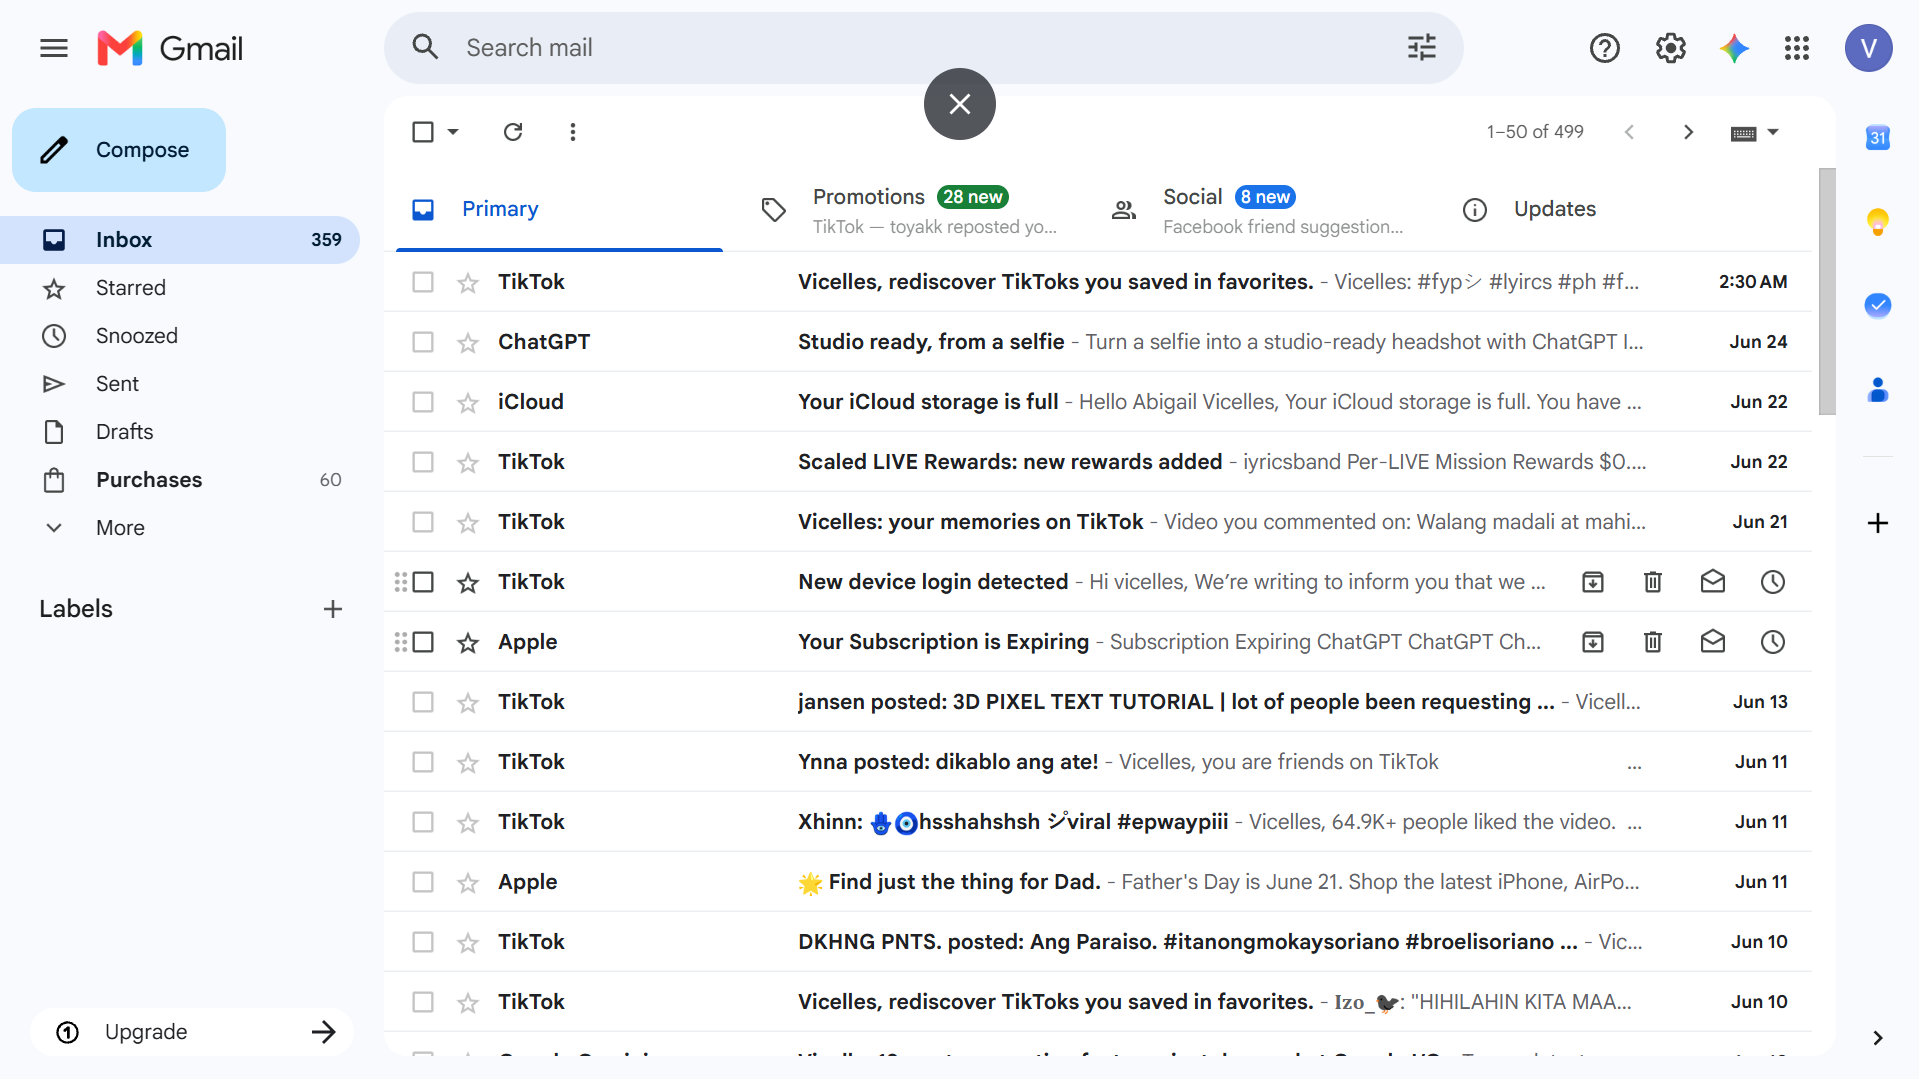
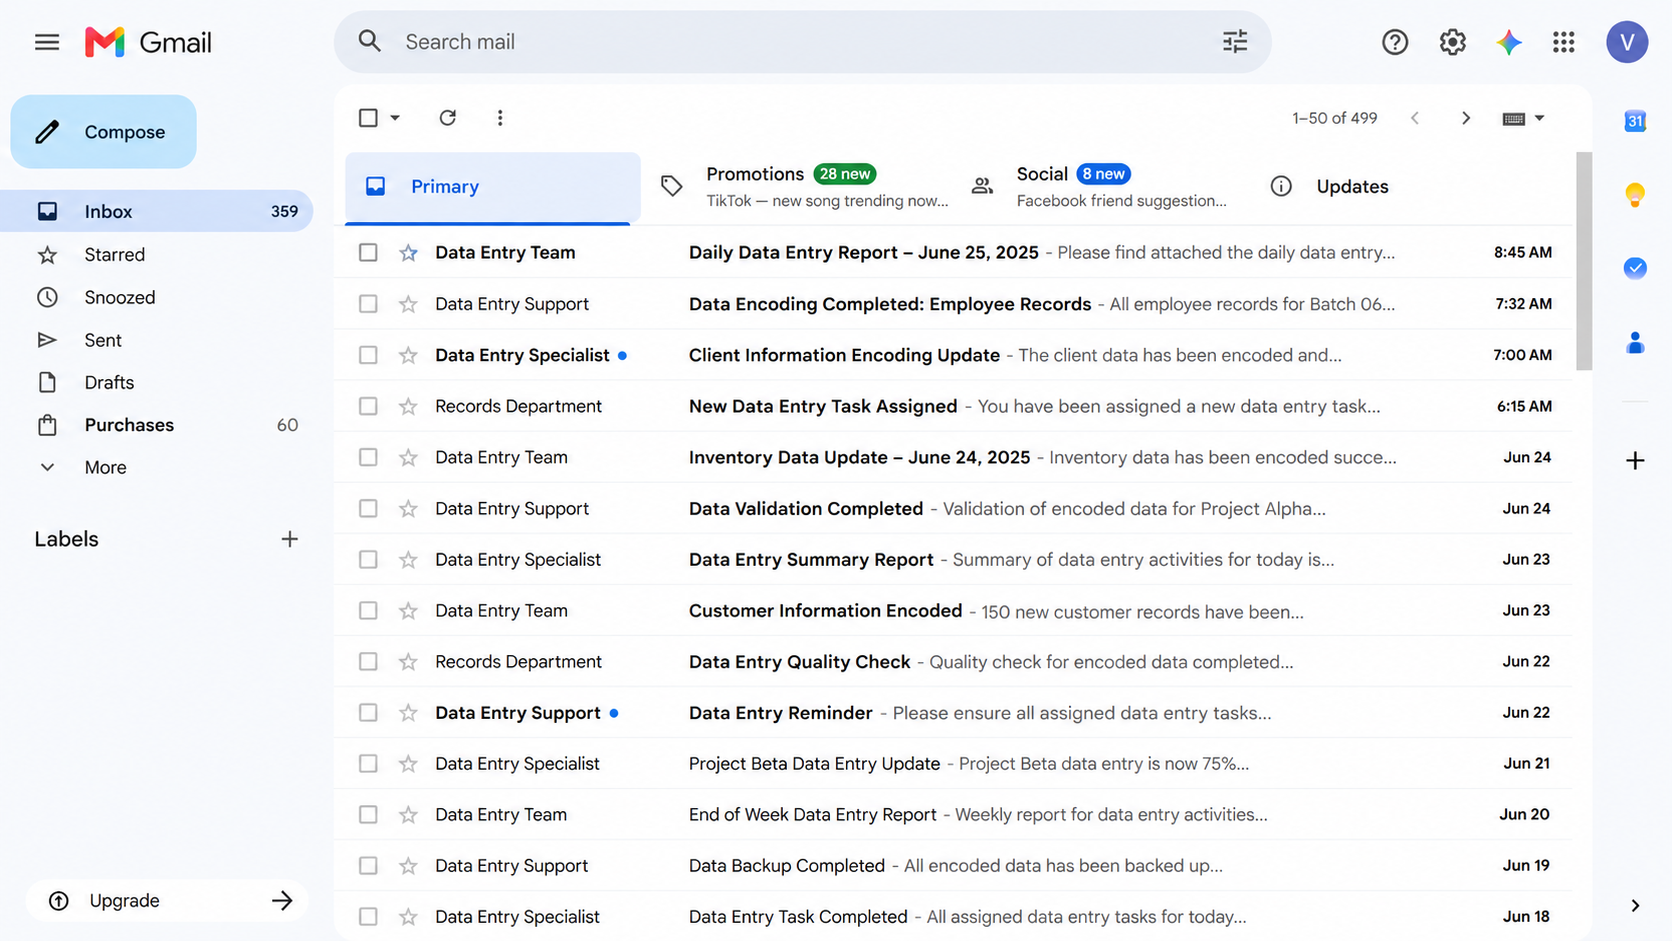
added 1

diff --git a/index.html b/index.html
@@ -316,7 +316,7 @@
         </div>
     </section>
 
-    <!-- PROOF OF WORK SLIDER SECTION (BEFORE & AFTER) -->
+    <!-- PROOF OF WORK SLIDER SECTION (6 SLIDES NA) -->
     <section id="work" class="max-w-7xl mx-auto px-6 py-20 border-t border-white/5">
         <div class="animate-on-scroll">
             <p class="text-purple-400 text-xs uppercase tracking-widest mb-2">Proof of Work</p>
@@ -326,6 +326,7 @@
         <div class="glass-card rounded-3xl p-8 md:p-12 animate-on-scroll">
             <div class="slider relative mb-8" id="beforeAfterSlider">
                 <div class="slides" id="slidesContainer">
+                    
                     <!-- Slide 1: BEFORE EMAIL -->
                     <div class="slide">
                         <img src="02_Before_Indox_Email.png" alt="Before Inbox" class="w-full h-auto rounded-xl border border-gray-700">
@@ -369,6 +370,28 @@
                         <h3 class="text-3xl font-serif mt-4 mb-2">Structured, conflict-free, focused calendar.</h3>
                         <p class="text-gray-400 max-w-3xl">Rebuilt into a structured system with priority-based time-blocking and daily review. Conflicts removed, context switching reduced, deep work increased from near-zero to 2h+ daily.</p>
                     </div>
+
+                    <!-- Slide 5: BEFORE EXCEL -->
+                    <div class="slide">
+                        <img src="02_Excel_Management_Before.png" alt="Before Excel" class="w-full h-auto rounded-xl border border-gray-700">
+                        <div class="flex flex-wrap gap-3 mt-6">
+                            <span class="bg-red-500/20 text-red-300 px-3 py-1 rounded text-xs uppercase">Before</span>
+                            <span class="bg-white/10 px-3 py-1 rounded text-xs uppercase">Excel Management</span>
+                        </div>
+                        <h3 class="text-3xl font-serif mt-4 mb-2">Unorganized files — no audit trail, duplicate names.</h3>
+                        <p class="text-gray-400 max-w-3xl">A document log with random filenames, duplicate files, and no clear folder structure. Zero visibility, hard to track, and high risk of missing files.</p>
+                    </div>
+
+                    <!-- Slide 6: AFTER EXCEL -->
+                    <div class="slide">
+                        <img src="03_Excel_Management_After.png" alt="After Excel" class="w-full h-auto rounded-xl border border-gray-700">
+                        <div class="flex flex-wrap gap-3 mt-6">
+                            <span class="bg-green-500/20 text-green-300 px-3 py-1 rounded text-xs uppercase">After</span>
+                            <span class="bg-white/10 px-3 py-1 rounded text-xs uppercase">Excel Management</span>
+                        </div>
+                        <h3 class="text-3xl font-serif mt-4 mb-2">Structured audit log — organized, consistent, traceable.</h3>
+                        <p class="text-gray-400 max-w-3xl">A standardized naming convention with clear folder purposes, statuses, and notes. Every file is accounted for, easy to find, and fully traceable.</p>
+                    </div>
                 </div>
             </div>
 
@@ -382,6 +405,8 @@
                     <button onclick="goToSlide(1)" class="w-2 h-2 rounded-full bg-gray-600 transition-all" id="indicator-1"></button>
                     <button onclick="goToSlide(2)" class="w-2 h-2 rounded-full bg-gray-600 transition-all" id="indicator-2"></button>
                     <button onclick="goToSlide(3)" class="w-2 h-2 rounded-full bg-gray-600 transition-all" id="indicator-3"></button>
+                    <button onclick="goToSlide(4)" class="w-2 h-2 rounded-full bg-gray-600 transition-all" id="indicator-4"></button>
+                    <button onclick="goToSlide(5)" class="w-2 h-2 rounded-full bg-gray-600 transition-all" id="indicator-5"></button>
                 </div>
 
                 <button onclick="moveSlide(1)" class="w-10 h-10 rounded-full border border-gray-600 hover:border-purple-400 hover:bg-purple-500/20 flex items-center justify-center transition">
@@ -407,7 +432,7 @@
         </div>
     </section>
 
-    <!-- Footer with LINKS -->
+    <!-- Footer -->
     <footer class="border-t border-white/10 py-12 text-center">
         <h3 class="text-2xl font-serif gradient-text mb-4">Jay Lourd Vicelles</h3>
         
@@ -416,12 +441,9 @@
         <p class="text-purple-300 text-xs mb-6">Available for remote work - Sankanan Manolo Fortich Buk. , Philippines.</p>
         
         <div class="flex justify-center gap-6 mb-8">
-            <!-- LINKEDIN ICON WITH REAL LINK -->
             <a href="https://www.linkedin.com/in/jay-lourd-vicelles-a596a7229/" target="_blank" class="w-10 h-10 border border-purple-500/50 text-purple-400 rounded-full flex items-center justify-center hover:bg-purple-500/10 hover:border-purple-400 hover:text-white transition">
                 <svg class="w-4 h-4" fill="currentColor" viewBox="0 0 24 24"><path d="M20.447 20.452h-3.554v-5.569c0-1.328-.027-3.037-1.852-3.037-1.853 0-2.136 1.445-2.136 2.939v5.667H9.351V9h3.414v1.561h.046c.477-.9 1.637-1.85 3.37-1.85 3.601 0 4.267 2.37 4.267 5.455v6.286zM5.337 7.433c-1.144 0-2.063-.926-2.063-2.065 0-1.138.92-2.063 2.063-2.063 1.14 0 2.064.925 2.064 2.063 0 1.139-.925 2.065-2.064 2.065zm1.782 13.019H3.555V9h3.564v11.452zM22.225 0H1.771C.792 0 0 .774 0 1.729v20.542C0 23.227.792 24 1.771 24h20.451C23.2 24 24 23.227 24 22.271V1.729C24 .774 23.2 0 22.225 0z"/></svg>
             </a>
-            
-            <!-- EMAIL ICON WITH REAL EMAIL -->
             <a href="mailto:jaylourdestahanvicelles@gmail.com" class="w-10 h-10 border border-purple-500/50 text-purple-400 rounded-full flex items-center justify-center hover:bg-purple-500/10 hover:border-purple-400 hover:text-white transition">
                 <svg class="w-4 h-4" fill="currentColor" viewBox="0 0 24 24"><path d="M1.5 8.67v8.58a3 3 0 003 3h15a3 3 0 003-3V8.67l-8.928 5.493a3 3 0 01-3.144 0L1.5 8.67z"/><path d="M22.5 6.908V6.75a3 3 0 00-3-3h-15a3 3 0 00-3 3v.158l9.714 5.98a1.5 1.5 0 001.572 0L22.5 6.908z"/></svg>
             </a>
@@ -460,7 +482,7 @@
             });
         });
 
-        // Slider Logic (Updated for 4 slides)
+        // Slider Logic (Updated for 6 slides)
         let currentSlide = 0;
         const slides = document.querySelectorAll('.slide');
         const totalSlides = slides.length;
